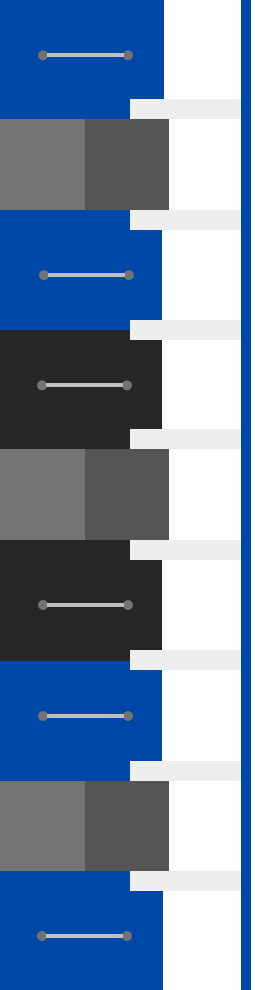
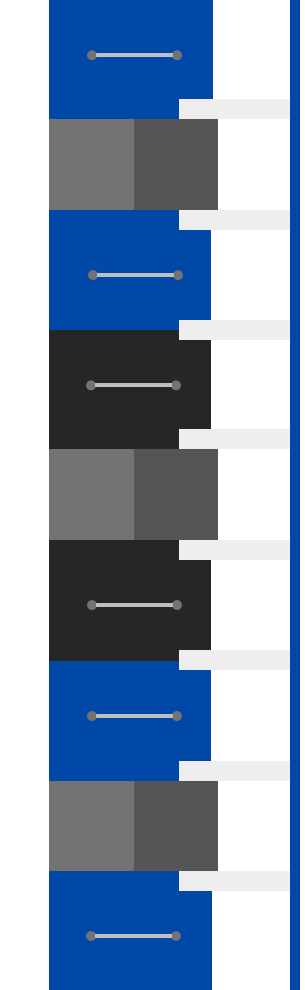
Add Driver's station label to grid

diff --git a/src/components/WidgetCheckboxGrid.vue b/src/components/WidgetCheckboxGrid.vue
@@ -1,5 +1,5 @@
 <template>
-  <div id="selectGrid" :style="{backgroundImage: `url(${imagePath}`}">
+  <div id="selectGrid" :style="{ backgroundImage: `url(${imagePath}`, aspectRatio: aspectRatio, padding: offsets }">
     <div v-for="i in width * height" :key="i">
       <input type="checkbox" v-model="grid[i % 3][Math.floor(i / 3)]" />
     </div>
@@ -48,6 +48,28 @@ function exportData() {
 
 const imagePath = $computed(() => `${import.meta.env.BASE_URL}assets/${props.data.file}`);
 
+function getImgSize(): Promise<{ width: number, height: number }> {
+  return new Promise((resolve, reject) => {
+    const newImg = new Image();
+
+    newImg.onload = function () {
+      const height = newImg.height;
+      const width = newImg.width;
+      resolve({ width, height });
+    };
+
+    newImg.src = imagePath; // this must be done AFTER setting onload
+  });
+}
+
+const dimensions = await getImgSize();
+const aspectRatio = dimensions.width / dimensions.height
+
+const offsets = (props.data.topOffset ?? 0) * (200 / dimensions.height) + "px " + 
+                (props.data.rightOffset ?? 0) * (200 / dimensions.width) + "px " +
+                (props.data.bottomOffset ?? 0) * (200 / dimensions.height) + "px " + 
+                (props.data.leftOffset ?? 0) * (200 / dimensions.width) + "px";
+
 </script>
 
 <style scoped>
@@ -59,7 +81,6 @@ const imagePath = $computed(() => `${import.meta.env.BASE_URL}assets/${props.dat
   background-repeat: no-repeat;
   background-size: cover;
   width: 200px;
-  aspect-ratio: 255 / 990;
   margin: 0 calc(50% - 100px);
 }
 

diff --git a/src/components/FormWidget.vue b/src/components/FormWidget.vue
@@ -41,13 +41,13 @@ const info = {
   checkbox:      { class: WidgetInput,         label: LabelType.LabelTag,  required: ["name"] },
   multicheckbox: { class: WidgetMultiCheckbox, label: LabelType.PlainText, required: ["name", "options"] },
   picture:       { class: WidgetPicture,       label: LabelType.None,      required: ["file"] },
-  positions:     { class: WidgetPositions,     label: LabelType.PlainText, required: ["name", "file"] },
+  positions:     { class: WidgetPositions,     label: LabelType.None,      required: ["name", "file"] },
   radio:         { class: WidgetRadio,         label: LabelType.PlainText, required: ["name", "options"] },
   spacer:        { class: WidgetSpacer,        label: LabelType.None,      required: [] },
   spinbox:       { class: WidgetSpinbox,       label: LabelType.LabelTag,  required: ["name"] },
   stopwatch:     { class: WidgetStopwatch,     label: LabelType.PlainText, required: ["name"] },
-  textarea:      { class: WidgetTextarea,      label: LabelType.LabelTag,  required: ["name"] },
-  checkboxgrid:  { class: WidgetCheckboxGrid,  label: LabelType.LabelTag,  required: ["name", "rows", "columns", "file"] },
+  textarea:      { class: WidgetTextarea,      label: LabelType.None,      required: ["name"] },
+  checkboxgrid:  { class: WidgetCheckboxGrid,  label: LabelType.None,      required: ["name", "rows", "columns", "file"] },
   pictureupload: { class: WidgetPictureUpload, label: LabelType.LabelTag,  required: ["name"] }
 }[props.data.type];
 

diff --git a/src/common/types.ts b/src/common/types.ts
@@ -50,6 +50,10 @@ export interface WidgetData {
   // Grid Checkbox
   rows?: number;
   columns?: number;
+  leftOffset?: number;
+  rightOffset?: number;
+  topOffset?: number;
+  bottomOffset?: number;
 }
 
 export enum LabelType {
